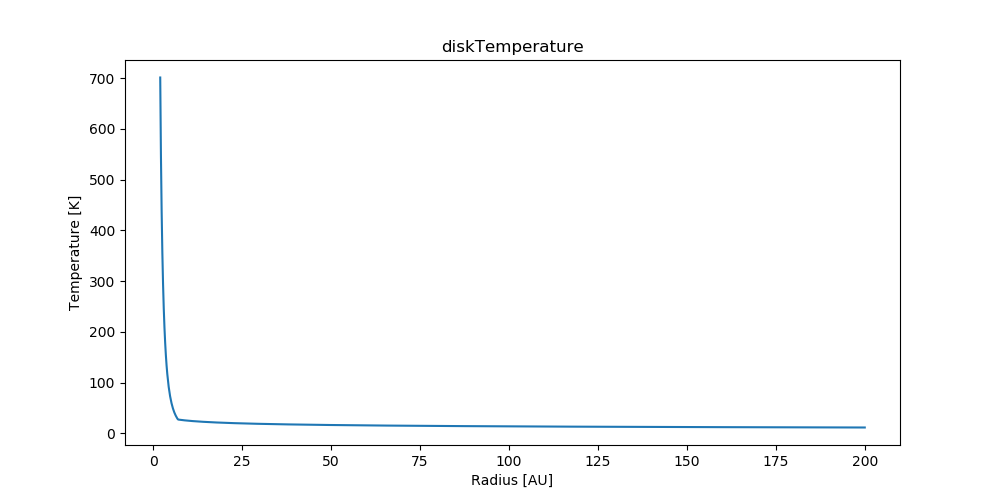
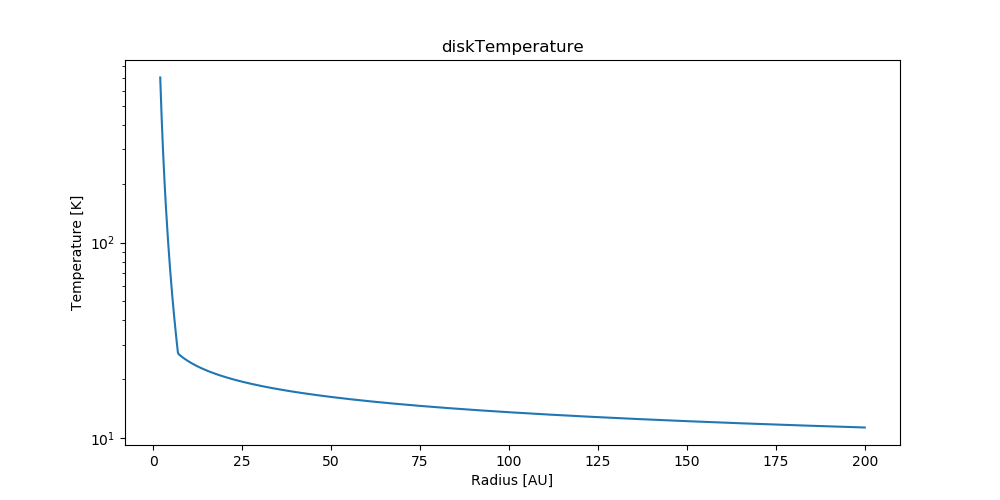
unhardcoded parameters in equations, fixed planckfunction 'R as T' bug

diff --git a/code/equations.py b/code/equations.py
@@ -4,9 +4,8 @@
 # Run the script itself to generate a plot for each equation
 
 import numpy as np
-import matplotlib.pyplot as plt
 
-def planckFunction(v, R):
+def planckFunction(v, T):
     """
     Returns the intensity of thermal radiation a black body emits
     at frequency nu (v) and temperature T(R).
@@ -18,67 +17,56 @@ def planckFunction(v, R):
     c = 2.998e8 # m s^-1 (Speed of light)
     kB = 1.38e-23 # J K^-1 (Boltzmann"s constant)
 
-    return 2 * h * pow(v, 3) / pow(c, 2) * pow(np.exp(h * v / kB / diskTemperature(R)) - 1, -1)
+    return 2 * h * v**3 / c**2 * pow(np.exp(h * v / kB / T) - 1, -1)
 
-def dustSurfaceDensity(R):
+def dustSurfaceDensity(R, Sig0, R_br, p0, p1):
     """
     Calculates the dust surface density (Sigma d) from a broken power law.
     R is given in AU.
     """
 
-    # Parameters
-    Sigma0 = 0.1 # kg m^-2 (guess)
-    Rbreak = 47 # AU
-    p0 = 0.53
-    p1 = 8.0
-
-
-    if R <= Rbreak:
-        return Sigma0 * pow(R / Rbreak, -p0)
+    if R <= R_br:
+        return Sig0 * pow(R / R_br, -p0)
     else:
-        return Sigma0 * pow(R / Rbreak, -p1)
+        return Sig0 * pow(R / R_br, -p1)
 
-def dustOpticalDepth(R, i):
+def dustOpticalDepth(R, Sig0, R_br, p0, p1, k, i):
     """
     Calculates the dust optical depth (tau) for radius R at 365.5 GHz.
     R is given in AU, i in radians [0, π/2].
     """
 
-    # Parameters
-    k = 0.34 # m^2 kg^-1 (at 365.5 GHz)
+    return dustSurfaceDensity(R, Sig0, R_br, p0, p1) * k * np.cos(i)
 
-    return dustSurfaceDensity(R) * k * np.cos(i)
-
-def diskTemperature(R):
+def diskTemperature(R, R0, T0, q0, q1):
     """
     Calculates the temperature at radius R from a broken power law.
     R is given in AU.
     """
-
-    # Parameters
-    R0 = 7 # AU
-    T0 = 27 # K
-    q0 = 2.6
-    q1 = 0.26
 
     if R <= R0:
         return T0 * pow(R / R0, -q0)
     else:
         return T0 * pow(R / R0, -q1)
 
-
-def thermalIntensity(v, R, i):
+def thermalIntensity(R, parameters):
     """
     Calculates the thermal intensity at frequency v from the dust
     inside the disk at radius R
     v is given in Hz, R in AU, i in radians [0, π/2]
     """
 
-    return planckFunction(v, diskTemperature(R)) * (1 - np.exp(-1 * dustOpticalDepth(R, i)))
+    v, R0, T0, q0, q1, Sig0, R_br, p0, p1, k, i = parameters
+
+    T_disk = diskTemperature(R, R0, T0, q0, q1)
+    optical_depth = dustOpticalDepth(R, Sig0, R_br, p0, p1, k, i)
+
+    return planckFunction(v, T_disk) * (1 - np.exp(-optical_depth))
 
 if __name__ == "__main__":
 
     import os, sys
+    import matplotlib.pyplot as plt
 
     def pyName():
         return __file__.split("\\")[-1].replace(".py", "")
@@ -86,10 +74,28 @@ if __name__ == "__main__":
     root_directory = os.path.dirname(os.path.dirname(os.path.realpath(__file__)))
     figures_directory = root_directory + "\\data\\codeFigures\\"
 
+    # Parameters
+    v = 365.5e9 # Hz
+    R0 = 7 # AU
+    T0 = 27 # K
+    q0 = 2.6
+    q1 = 0.26
+    k = 0.34 # m^2 kg^-1 (at 365.5 GHz)
+    Sig0 = 0.1 # kg m^-2 (guess)
+    R_br = 47 # AU
+    p0 = 0.53
+    p1 = 8.0
+    i = 0.0*np.pi # [0, np.pi/2]
+
+    R = 10 # AU
+    Rinner = 2 # AU
+    Router = 200 # AU
+
+    parameters = (v, R0, T0, q0, q1, Sig0, R_br, p0, p1, k, i)
+
     # Test planckFunction
 
-    radius = 10 # AU
-    temperature = diskTemperature(radius)
+    temperature = diskTemperature(R, R0, T0, q0, q1)
 
     frequencies = np.linspace(0.1, 1e13, 1000)
     intensities = []
@@ -101,7 +107,7 @@ if __name__ == "__main__":
 
     plt.plot(frequencies / 1e9, intensities)
 
-    plt.title(f"planckFunction, R = {radius} AU -> T = {temperature:.2f} K")
+    plt.title(f"planckFunction, R = {R} AU -> T = {temperature:.2f} K")
     plt.xlabel("Frequency [GHz]")
     plt.ylabel("Intensity")
 
@@ -109,18 +115,16 @@ if __name__ == "__main__":
 
     # Test dustSurfaceDensity
 
-    Rinner = 2 # AU
-    Router = 200 # AU
-
     radii = np.linspace(Rinner, Router, 1000)
     densities = []
 
     for radius in radii:
-        densities.append(dustSurfaceDensity(radius))
+        densities.append(dustSurfaceDensity(radius, Sig0, R_br, p0, p1))
 
     plt.figure("dustSurfaceDensity", figsize = (10, 5))
 
     plt.plot(radii, densities)
+    plt.yscale('log')
 
     plt.title("dustSurfaceDensity")
     plt.xlabel("Radius [AU]")
@@ -130,21 +134,18 @@ if __name__ == "__main__":
 
     # Test dustOpticalDepth
 
-    inclination = 0 # [0, np.pi/2]
-    Rinner = 2 # AU
-    Router = 200 # AU
-
     radii = np.linspace(Rinner, Router, 1000)
     optical_depths = []
 
     for radius in radii:
-        optical_depths.append(dustOpticalDepth(radius, inclination))
+        optical_depths.append(dustOpticalDepth(radius, Sig0, R_br, p0, p1, k, i))
 
     plt.figure("dustOpticalDepth", figsize = (10, 5))
 
     plt.plot(radii, optical_depths)
+    plt.yscale('log')
 
-    plt.title(f"dustOpticalDepth, i = {inclination/np.pi} π")
+    plt.title(f"dustOpticalDepth, i = {i/np.pi} π")
     plt.xlabel("Radius [AU]")
     plt.ylabel("Optical depth")
 
@@ -153,18 +154,16 @@ if __name__ == "__main__":
 
     # Test diskTemperature
 
-    Rinner = 2 # AU
-    Router = 200 # AU
-
     radii = np.linspace(Rinner, Router, 1000)
     temperatures = []
 
-    for radius in radii:
-        temperatures.append(diskTemperature(radius))
+    for R in radii:
+        temperatures.append(diskTemperature(R, R0, T0, q0, q1))
 
     plt.figure("diskTemperature", figsize = (10, 5))
 
     plt.plot(radii, temperatures)
+    plt.yscale('log')
 
     plt.title("diskTemperature")
     plt.xlabel("Radius [AU]")
@@ -175,22 +174,18 @@ if __name__ == "__main__":
 
     # Test thermalIntensity
 
-    frequency = 365.5e9 # Hz
-    inclination = 0.0*np.pi # [0, np.pi/2]
-    Rinner = 1 # AU
-    Router = 200 # AU
-
     radii = np.linspace(Rinner, Router, 1000)
     thermal_intensities = []
 
     for radius in radii:
-        thermal_intensities.append(thermalIntensity(frequency, radius, inclination))
+        thermal_intensities.append(thermalIntensity(radius, parameters))
 
     plt.figure("thermalIntensity", figsize = (10, 5))
 
     plt.plot(radii, thermal_intensities)
+    plt.yscale('log')
 
-    plt.title(f"Thermal continuum, v = {frequency/1e9}GHz, i = {inclination/np.pi}π")
+    plt.title(f"Thermal continuum, v = {v/1e9}GHz, i = {i/np.pi}π")
     plt.xlabel("Radius [AU]")
     plt.ylabel("Intensity")
 

diff --git a/code/modelImage.py b/code/modelImage.py
@@ -4,12 +4,13 @@ import os, sys
 import numpy as np
 import matplotlib.pyplot as plt
 
-from equations import thermalIntensity
+from matplotlib.colors import LogNorm
+from equationsparameters import thermalIntensity
 
 root_directory = os.path.dirname(os.path.dirname(os.path.realpath(__file__)))
 data_directory = root_directory + "\\data\\"
 
-def getImageMatrix(v, inc, R_in, R_out, pixelDimension):
+def getImageMatrix(parameters, R_in, R_out, pixelDimension):
     """
     Generates a numpy matrix of continuum intensities for plotting the disk.
     v is given in Hz, inc in radians [0, π/2] and R_in/R_out in AU.
@@ -22,7 +23,7 @@ def getImageMatrix(v, inc, R_in, R_out, pixelDimension):
         for j, y in enumerate(coords):
             radius = np.sqrt(x**2 + y**2)
             if radius >= R_in and radius <= R_out:
-                matrix[i, j] = thermalIntensity(v, radius, inc)
+                matrix[i, j] = thermalIntensity(radius, parameters)
 
     return matrix
 
@@ -33,7 +34,12 @@ def plotImage(image, pixelDimension, pixelSize):
 
     R_outer = (pixelDimension * pixelSize) / 2
 
-    plt.imshow(image, cmap="inferno", extent = [-R_outer, R_outer, -R_outer, R_outer])
+    # Replace all zeros with the smallest value in the image
+    smallest_value = np.min(image[np.nonzero(image)])
+    image[np.where(image == 0.0)] = smallest_value
+    print(image)
+
+    plt.imshow(image, cmap="inferno", norm=LogNorm(), extent = [-R_outer, R_outer, -R_outer, R_outer])
 
     plt.title("Thermal Continuum disk")
     plt.xlabel("X [AU]")
@@ -82,13 +88,26 @@ if __name__ == "__main__":
         return __file__.split("\\")[-1].replace(".py", "")
 
     # Parameters
-    frequency = 365.5e9 # Hz
-    inclination = 0.0*np.pi # [0, np.pi/2]
+    v = 365.5e9 # Hz
+    R0 = 7 # AU
+    T0 = 27 # K
+    q0 = 2.6
+    q1 = 0.26
+    k = 0.34 # m^2 kg^-1 (at 365.5 GHz)
+    Sig0 = 0.1 # kg m^-2 (guess)
+    R_br = 47 # AU
+    p0 = 0.53
+    p1 = 8.0
+    i = 0.0*np.pi # [0, np.pi/2]
+
+    parameters = (v, R0, T0, q0, q1, Sig0, R_br, p0, p1, k, i)
+
+    # Parameters
     R_inner = 1 # AU
     R_outer = 80 # AU
     pixelDimension = 500
 
-    image = getImageMatrix(frequency, inclination, R_inner, R_outer, pixelDimension)
+    image = getImageMatrix(parameters, R_inner, R_outer, pixelDimension)
     saveImagePNG(image, pixelDimension, R_outer, f"codeFigures\\{pyName()}.png")
 
     plt.show()
